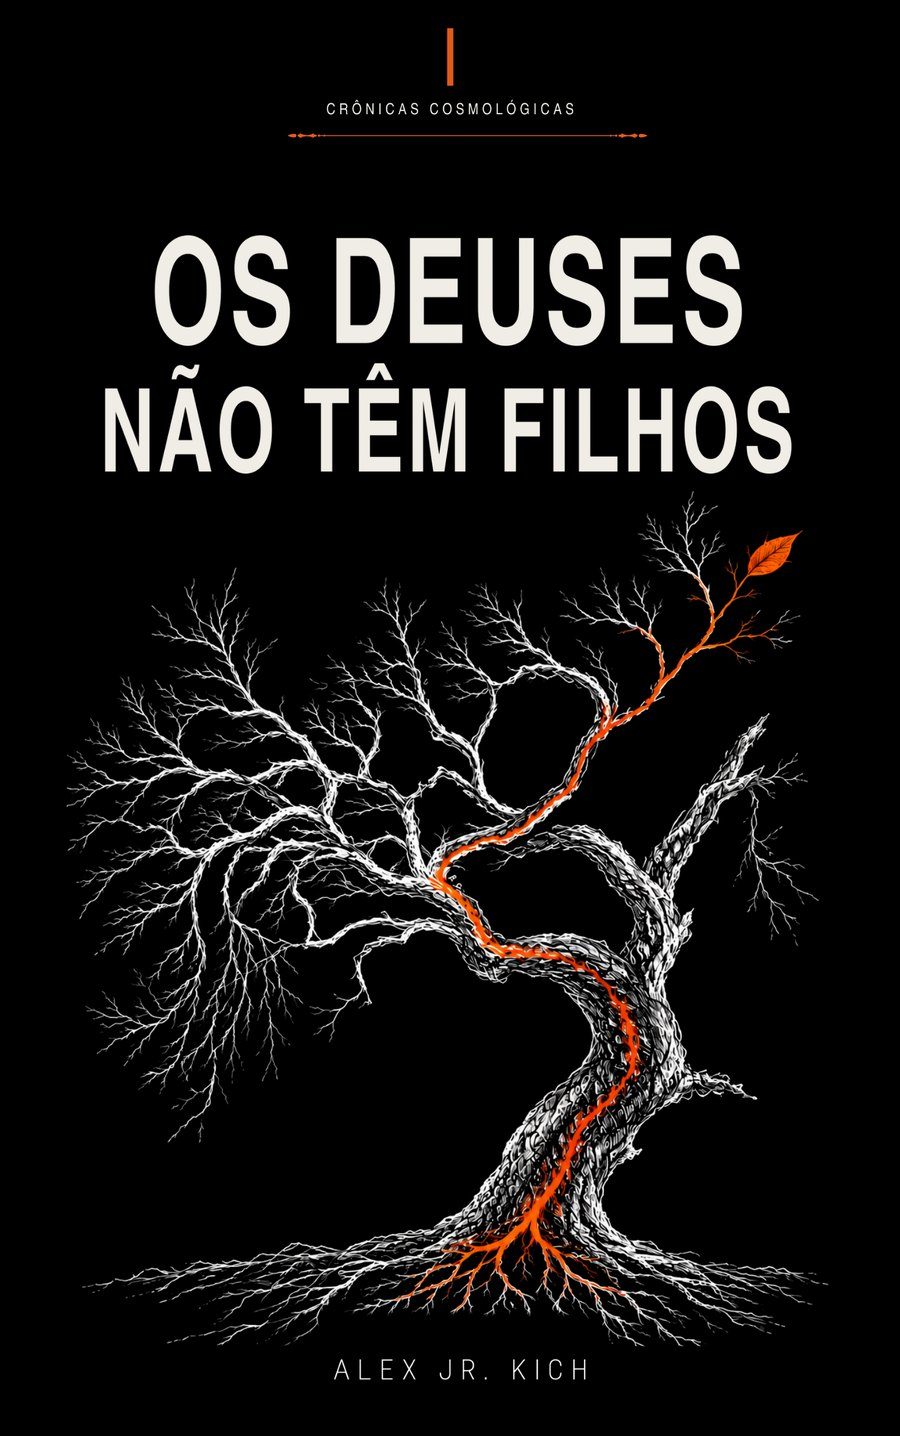
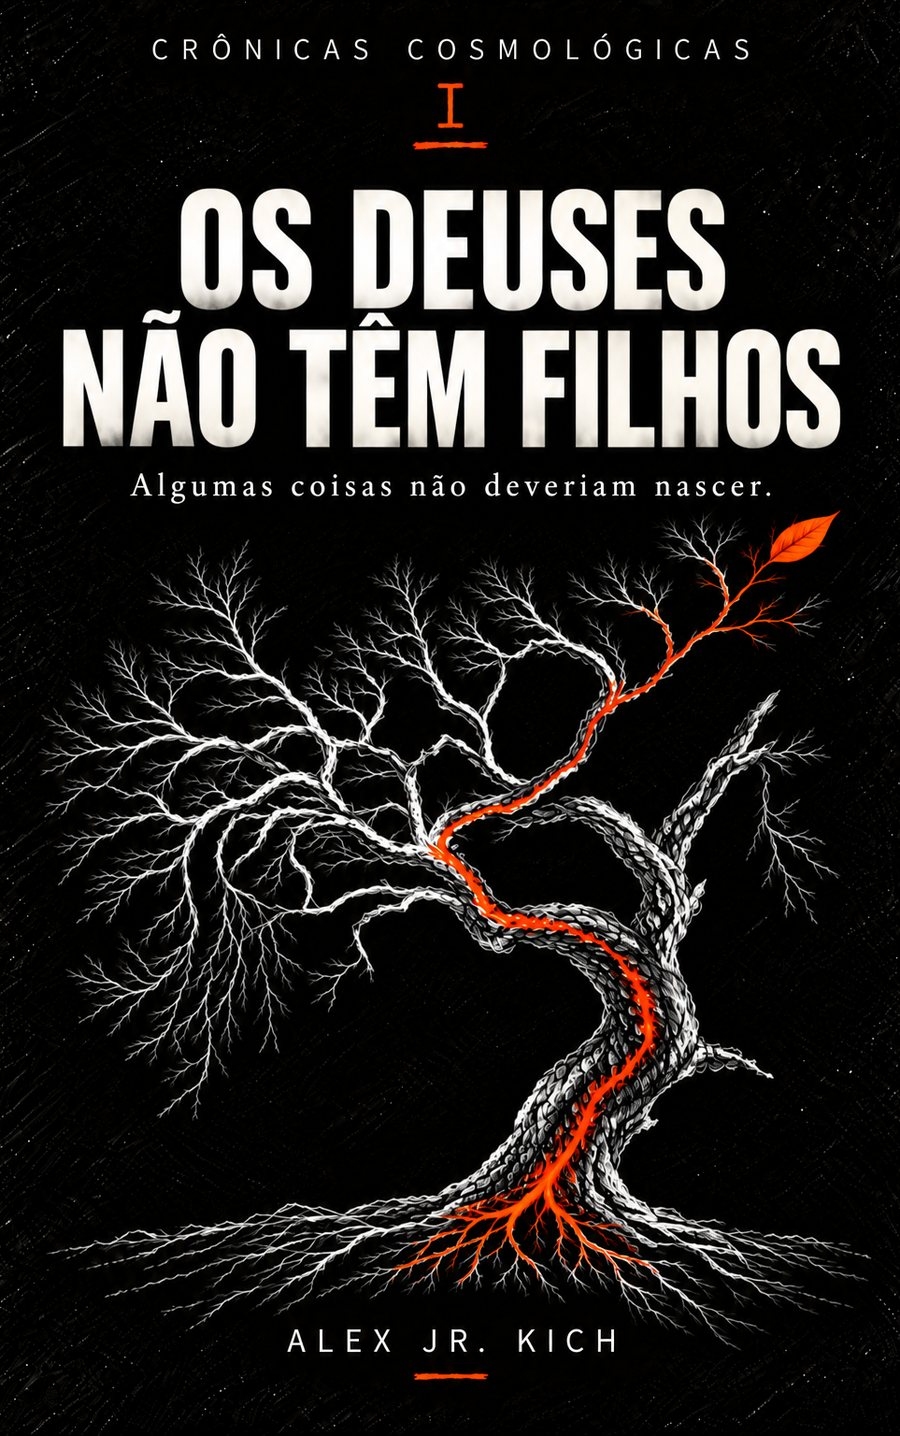
Capas novas do livro I (PT e EN)

diff --git a/en/chronicles/index.html b/en/chronicles/index.html
@@ -78,7 +78,7 @@
 
         <section class="books-future" id="chronicles">
           <span class="kicker">Cosmological Chronicles · I–X</span>
-          <div class="books-grid books-grid--covers" style="margin-top:16px"><a class="book-card book-card--cover" href="/en/chronicles/os-deuses-nao-tem-filhos/"><img src="/livros/os-deuses-nao-tem-filhos.jpg" alt="Cover of THE GODS HAVE NO CHILDREN" loading="lazy" /><span class="mono">I · In development</span><h3>THE GODS HAVE NO CHILDREN</h3><p>Creating a life gives no one the right to own it.</p><span class="book-card__more mono">Synopsis and details →</span></a><a class="book-card book-card--cover" href="/en/chronicles/a-ultima-testemunha/"><img src="/livros/a-ultima-testemunha.jpg" alt="Cover of THE LAST WITNESS" loading="lazy" /><span class="mono">II · In development</span><h3>THE LAST WITNESS</h3><p>Some things only happen when someone is watching.</p><span class="book-card__more mono">Synopsis and details →</span></a><a class="book-card book-card--cover" href="/en/chronicles/amanha-nao-existe/"><img src="/livros/amanha-nao-existe.jpg" alt="Cover of TOMORROW DOES NOT EXIST" loading="lazy" /><span class="mono">III · In development</span><h3>TOMORROW DOES NOT EXIST</h3><p>Receiving the answer before the question does not make the choice any easier.</p><span class="book-card__more mono">Synopsis and details →</span></a><a class="book-card book-card--cover" href="/en/chronicles/o-universo-nao-responde/"><img src="/livros/o-universo-nao-responde.jpg" alt="Cover of THE UNIVERSE DOES NOT ANSWER" loading="lazy" /><span class="mono">IV · In development</span><h3>THE UNIVERSE DOES NOT ANSWER</h3><p>Perhaps silence is only an answer we have not yet learned to hear.</p><span class="book-card__more mono">Synopsis and details →</span></a><a class="book-card book-card--cover" href="/en/chronicles/o-arquivo-dos-mortos/"><img src="/livros/o-arquivo-dos-mortos.jpg" alt="Cover of THE ARCHIVE OF THE DEAD" loading="lazy" /><span class="mono">V · In development</span><h3>THE ARCHIVE OF THE DEAD</h3><p>Keeping everything about someone does not bring them back.</p><span class="book-card__more mono">Synopsis and details →</span></a><a class="book-card book-card--cover" href="/en/chronicles/antes-de-nascermos/"><img src="/livros/antes-de-nascermos-en.jpg" alt="Cover of BEFORE WE ARE BORN" loading="lazy" /><span class="mono">VI · In development</span><h3>BEFORE WE ARE BORN</h3><p>Some children remember a place where they have never been.</p><span class="book-card__more mono">Synopsis and details →</span></a><a class="book-card book-card--cover" href="/en/chronicles/o-ceu-esta-errado/"><img src="/livros/o-ceu-esta-errado.jpg" alt="Cover of THE SKY IS WRONG" loading="lazy" /><span class="mono">VII · In development</span><h3>THE SKY IS WRONG</h3><p>First the stars disappear. Then the people. The worst part is when no one notices they are missing.</p><span class="book-card__more mono">Synopsis and details →</span></a><a class="book-card book-card--cover" href="/en/chronicles/o-retangulo-negro/"><img src="/livros/o-retangulo-negro.jpg" alt="Cover of THE BLACK RECTANGLE" loading="lazy" /><span class="mono">VIII · In development</span><h3>THE BLACK RECTANGLE</h3><p>Not everything that vanishes was lost.</p><span class="book-card__more mono">Synopsis and details →</span></a><a class="book-card book-card--cover" href="/en/chronicles/nao-tem-a-palavra/"><img src="/livros/nao-tem-a-palavra.jpg" alt="Cover of THERE IS NO WORD" loading="lazy" /><span class="mono">IX · In development</span><h3>THERE IS NO WORD</h3><p>Some things disappear when they stop having a name.</p><span class="book-card__more mono">Synopsis and details →</span></a><a class="book-card book-card--cover" href="/en/chronicles/o-ultimo-sinal/"><img src="/livros/o-ultimo-sinal.jpg" alt="Cover of THE LAST SIGNAL" loading="lazy" /><span class="mono">X · In development</span><h3>THE LAST SIGNAL</h3><p>If one of us arrives first, wait for the other.</p><span class="book-card__more mono">Synopsis and details →</span></a></div>
+          <div class="books-grid books-grid--covers" style="margin-top:16px"><a class="book-card book-card--cover" href="/en/chronicles/os-deuses-nao-tem-filhos/"><img src="/livros/os-deuses-nao-tem-filhos-en.jpg" alt="Cover of THE GODS HAVE NO CHILDREN" loading="lazy" /><span class="mono">I · In development</span><h3>THE GODS HAVE NO CHILDREN</h3><p>Creating a life gives no one the right to own it.</p><span class="book-card__more mono">Synopsis and details →</span></a><a class="book-card book-card--cover" href="/en/chronicles/a-ultima-testemunha/"><img src="/livros/a-ultima-testemunha.jpg" alt="Cover of THE LAST WITNESS" loading="lazy" /><span class="mono">II · In development</span><h3>THE LAST WITNESS</h3><p>Some things only happen when someone is watching.</p><span class="book-card__more mono">Synopsis and details →</span></a><a class="book-card book-card--cover" href="/en/chronicles/amanha-nao-existe/"><img src="/livros/amanha-nao-existe.jpg" alt="Cover of TOMORROW DOES NOT EXIST" loading="lazy" /><span class="mono">III · In development</span><h3>TOMORROW DOES NOT EXIST</h3><p>Receiving the answer before the question does not make the choice any easier.</p><span class="book-card__more mono">Synopsis and details →</span></a><a class="book-card book-card--cover" href="/en/chronicles/o-universo-nao-responde/"><img src="/livros/o-universo-nao-responde.jpg" alt="Cover of THE UNIVERSE DOES NOT ANSWER" loading="lazy" /><span class="mono">IV · In development</span><h3>THE UNIVERSE DOES NOT ANSWER</h3><p>Perhaps silence is only an answer we have not yet learned to hear.</p><span class="book-card__more mono">Synopsis and details →</span></a><a class="book-card book-card--cover" href="/en/chronicles/o-arquivo-dos-mortos/"><img src="/livros/o-arquivo-dos-mortos.jpg" alt="Cover of THE ARCHIVE OF THE DEAD" loading="lazy" /><span class="mono">V · In development</span><h3>THE ARCHIVE OF THE DEAD</h3><p>Keeping everything about someone does not bring them back.</p><span class="book-card__more mono">Synopsis and details →</span></a><a class="book-card book-card--cover" href="/en/chronicles/antes-de-nascermos/"><img src="/livros/antes-de-nascermos-en.jpg" alt="Cover of BEFORE WE ARE BORN" loading="lazy" /><span class="mono">VI · In development</span><h3>BEFORE WE ARE BORN</h3><p>Some children remember a place where they have never been.</p><span class="book-card__more mono">Synopsis and details →</span></a><a class="book-card book-card--cover" href="/en/chronicles/o-ceu-esta-errado/"><img src="/livros/o-ceu-esta-errado.jpg" alt="Cover of THE SKY IS WRONG" loading="lazy" /><span class="mono">VII · In development</span><h3>THE SKY IS WRONG</h3><p>First the stars disappear. Then the people. The worst part is when no one notices they are missing.</p><span class="book-card__more mono">Synopsis and details →</span></a><a class="book-card book-card--cover" href="/en/chronicles/o-retangulo-negro/"><img src="/livros/o-retangulo-negro.jpg" alt="Cover of THE BLACK RECTANGLE" loading="lazy" /><span class="mono">VIII · In development</span><h3>THE BLACK RECTANGLE</h3><p>Not everything that vanishes was lost.</p><span class="book-card__more mono">Synopsis and details →</span></a><a class="book-card book-card--cover" href="/en/chronicles/nao-tem-a-palavra/"><img src="/livros/nao-tem-a-palavra.jpg" alt="Cover of THERE IS NO WORD" loading="lazy" /><span class="mono">IX · In development</span><h3>THERE IS NO WORD</h3><p>Some things disappear when they stop having a name.</p><span class="book-card__more mono">Synopsis and details →</span></a><a class="book-card book-card--cover" href="/en/chronicles/o-ultimo-sinal/"><img src="/livros/o-ultimo-sinal.jpg" alt="Cover of THE LAST SIGNAL" loading="lazy" /><span class="mono">X · In development</span><h3>THE LAST SIGNAL</h3><p>If one of us arrives first, wait for the other.</p><span class="book-card__more mono">Synopsis and details →</span></a></div>
         </section>
       </div>
     </section></main>

diff --git a/en/chronicles/os-deuses-nao-tem-filhos/index.html b/en/chronicles/os-deuses-nao-tem-filhos/index.html
@@ -22,11 +22,11 @@ In The Gods Have No Children, Enki, Ninhursag and a child who should not have be
   <meta property="og:url" content="https://sinalruido.com.br/en/chronicles/os-deuses-nao-tem-filhos/" />
   <meta property="og:site_name" content="SINAL/RUÍDO" />
   <meta property="og:locale" content="en_US" />
-  <meta property="og:image" content="https://sinalruido.com.br/livros/os-deuses-nao-tem-filhos.jpg" />
+  <meta property="og:image" content="https://sinalruido.com.br/livros/os-deuses-nao-tem-filhos-en.jpg" />
   <meta property="og:image:width" content="1200" />
   <meta property="og:image:height" content="630" />
   <meta name="twitter:card" content="summary_large_image" />
-  <meta name="twitter:image" content="https://sinalruido.com.br/livros/os-deuses-nao-tem-filhos.jpg" />
+  <meta name="twitter:image" content="https://sinalruido.com.br/livros/os-deuses-nao-tem-filhos-en.jpg" />
   <link rel="preconnect" href="https://fonts.googleapis.com" />
   <link rel="preconnect" href="https://fonts.gstatic.com" crossorigin />
   <link rel="stylesheet" href="https://fonts.googleapis.com/css2?family=Oswald:wght@600;700&display=swap" />
@@ -66,7 +66,7 @@ In The Gods Have No Children, Enki, Ninhursag and a child who should not have be
           <a href="/livros/os-deuses-nao-tem-filhos/" class="mono" style="color:var(--muted)" hreflang="pt-BR">← Versão em português</a>
         </div>
         <div class="book-sheet__hero">
-          <img class="book-sheet__cover" src="/livros/os-deuses-nao-tem-filhos.jpg" alt="Cover of THE GODS HAVE NO CHILDREN" width="450" height="720" />
+          <img class="book-sheet__cover" src="/livros/os-deuses-nao-tem-filhos-en.jpg" alt="Cover of THE GODS HAVE NO CHILDREN" width="450" height="720" />
           <div>
             <span class="badge" style="border-color:var(--signal);color:var(--signal)">I · In development</span>
             <h1 style="margin-top:12px">THE GODS HAVE NO CHILDREN</h1>

diff --git a/INTERNATIONAL-SITE-RECON.md b/INTERNATIONAL-SITE-RECON.md
@@ -686,3 +686,7 @@ A capa de "Antes de Nascermos" parecia apagada: o preto estava levantado (median
 - `hreflang` recíproco (pt-BR, en, x-default) entre cada página em português e a sua versão em inglês: 10 livros, `/livros/` e `/en/chronicles/`, `/livro/` e `/en/signal-noise/` (24 páginas).
 - Continuam `noindex` e fora do sitemap: `/buy/`, `/livro/amostra/`, `/cortesia/`, `404.html`. `/livro/sample/` já era indexável.
 - Só passa a valer quando o site for publicado.
+
+## V. Capas do livro I (2026-09-25)
+
+Arte nova em PT (`sinal final/LIVROS/1/pt.png`, "Algumas coisas não deveriam nascer.") e EN (`eg.png`, "THE GODS HAVE NO CHILDREN · Some things should never be born.", com "COSMOLOGICAL CHRONICLES"), cortadas 30 px de cada lado como as demais. A EN vai em `public/livros/os-deuses-nao-tem-filhos-en.jpg` (`coverEn`). Livros com capa em inglês no site: I e VI.
